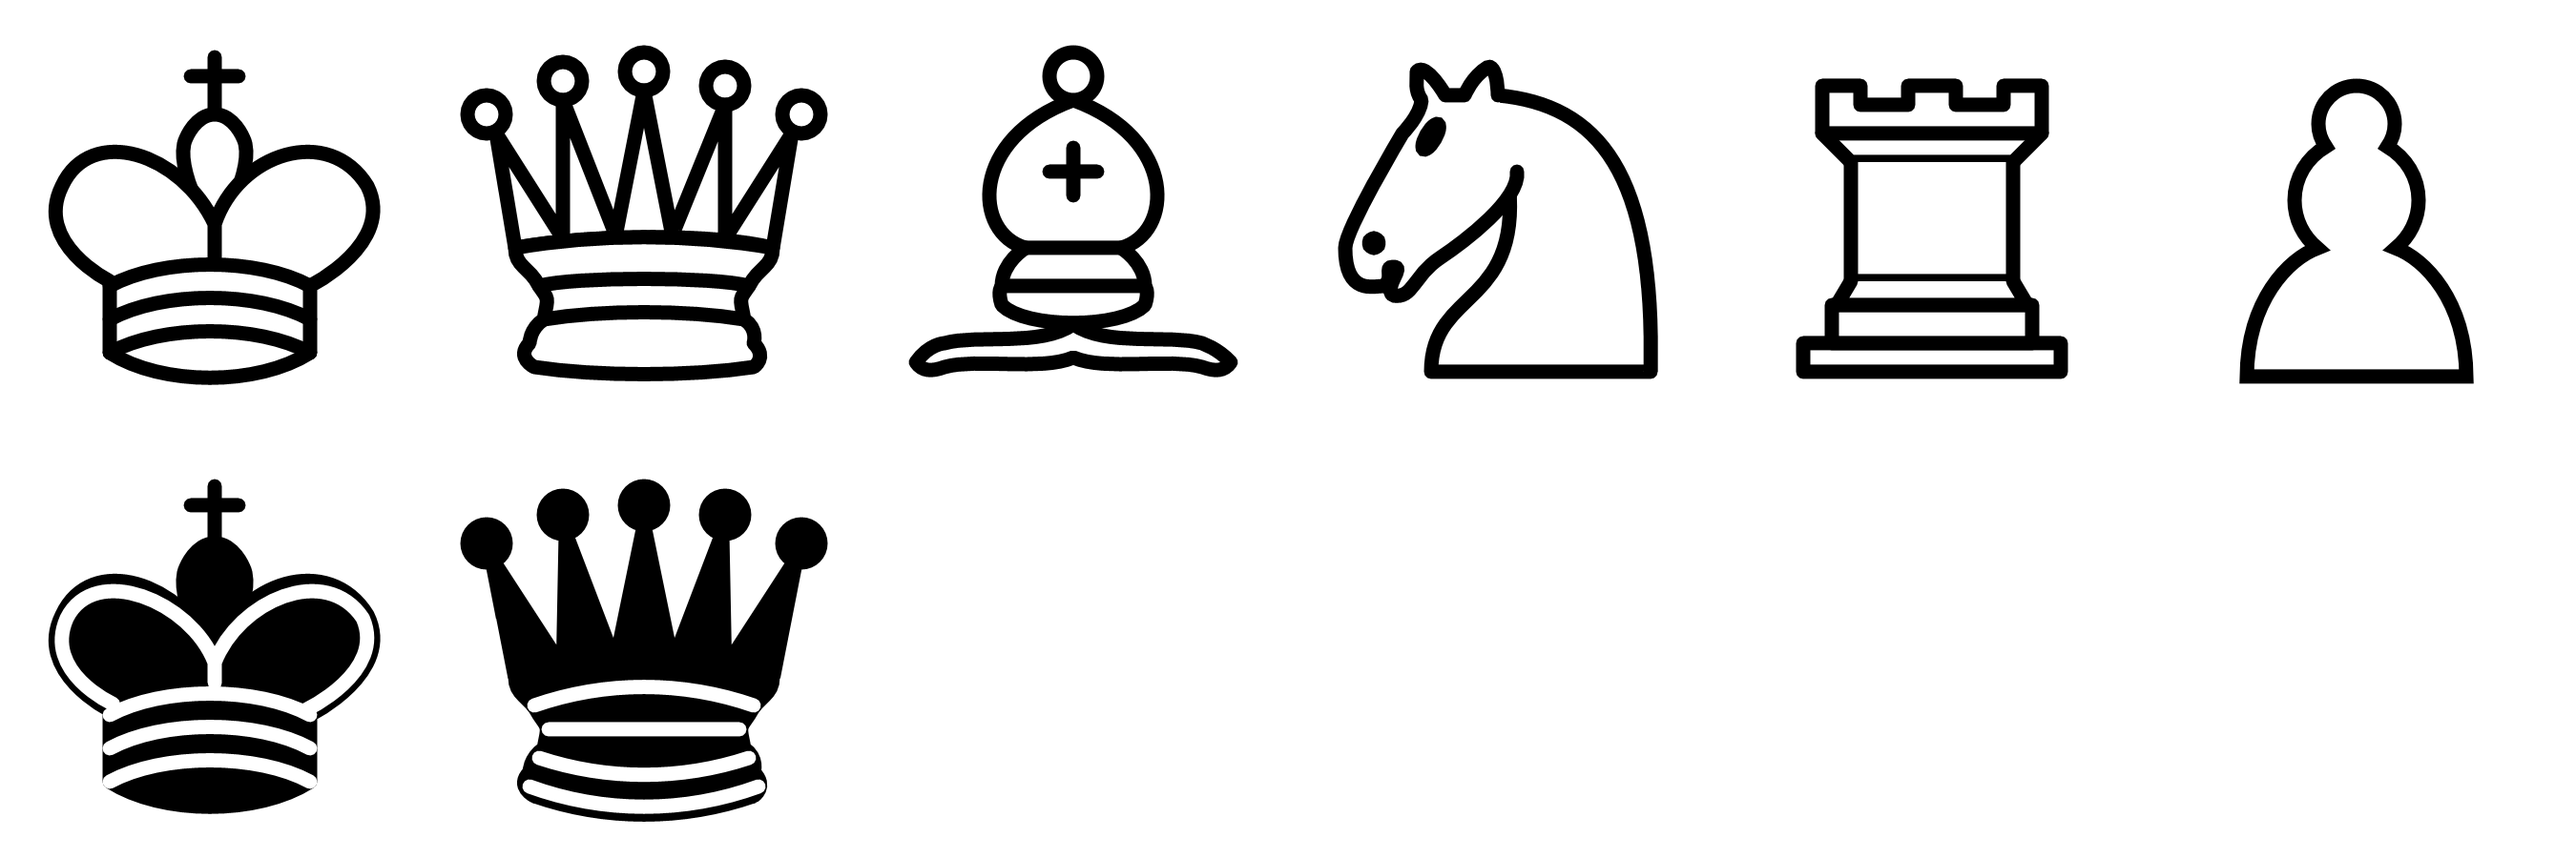
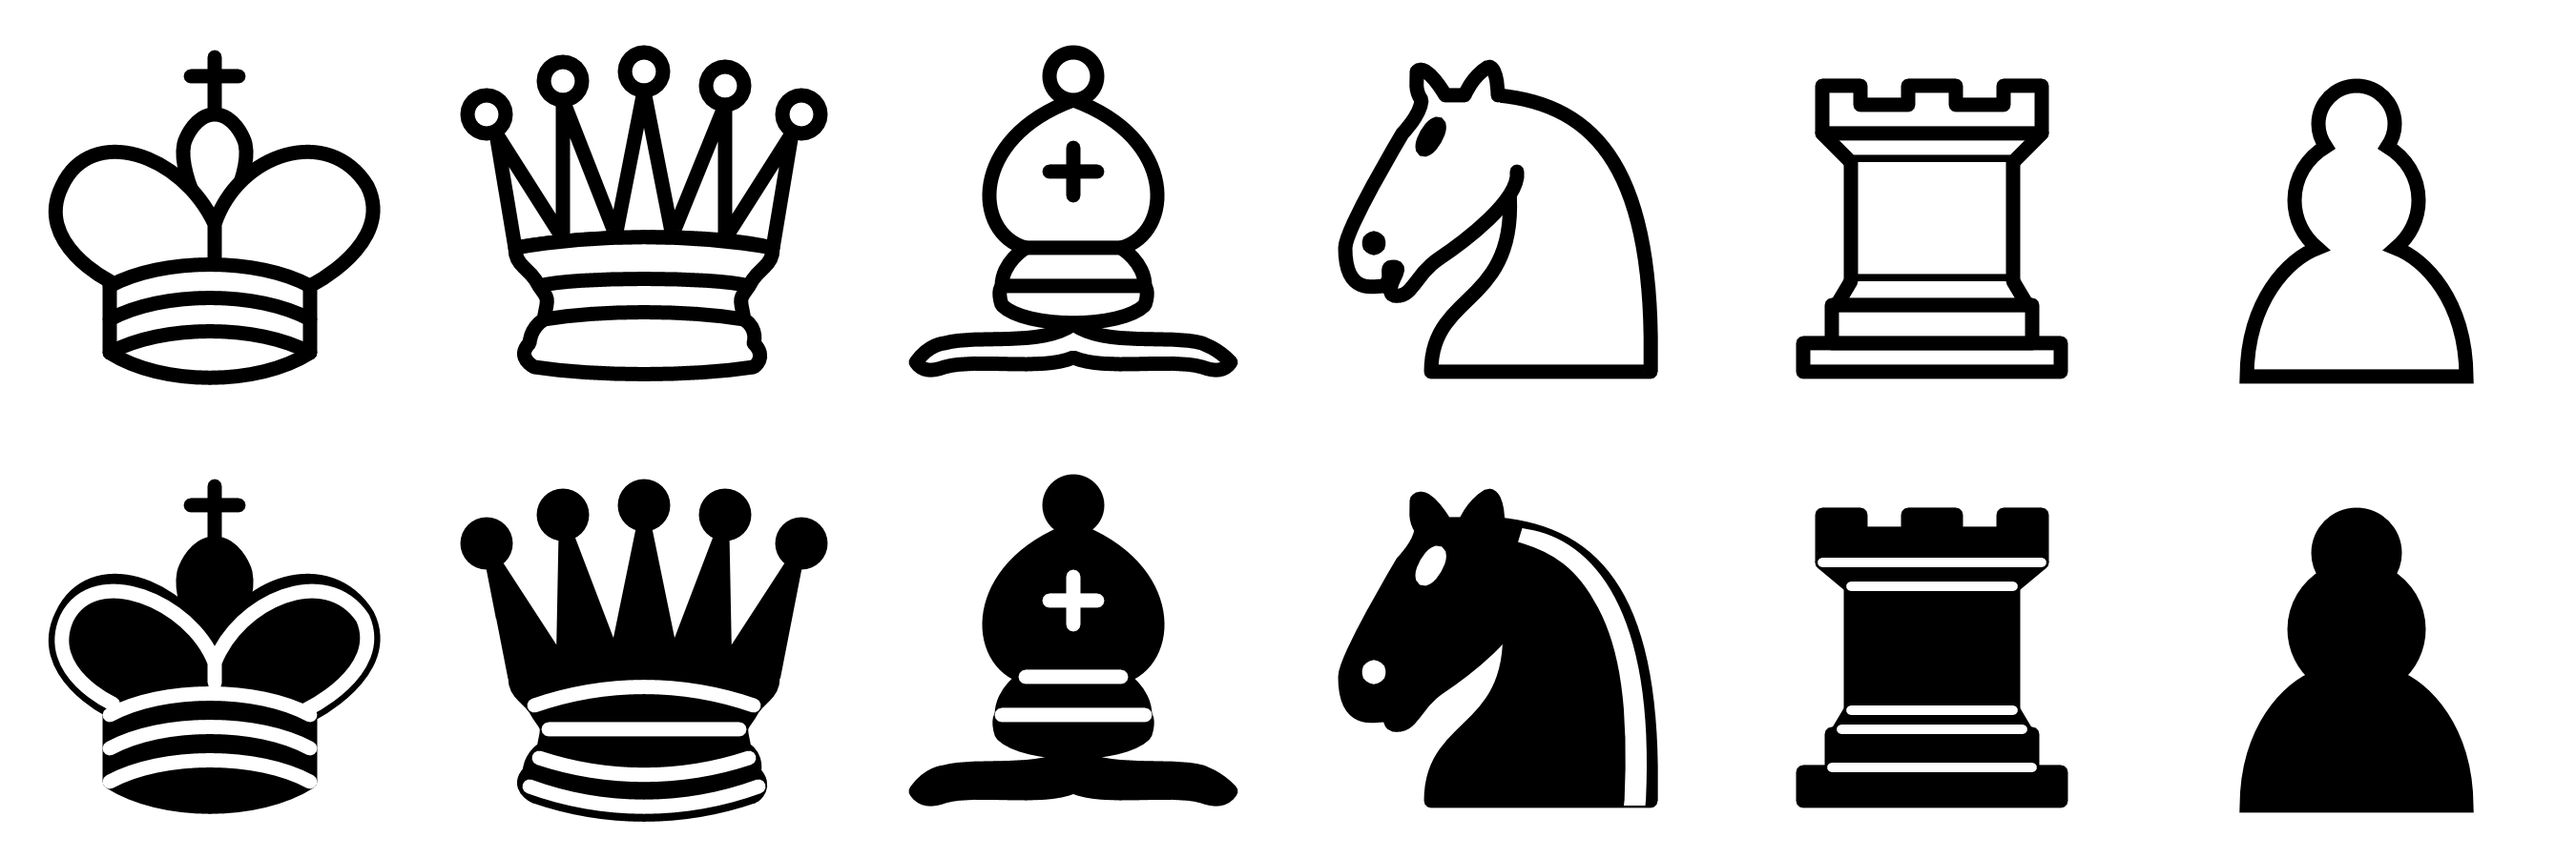
Teams, part 2

diff --git a/src/com/sillypantscoder/chess/game/pieces/LeapingMoveSet.java b/src/com/sillypantscoder/chess/game/pieces/LeapingMoveSet.java
@@ -33,6 +33,7 @@ public class LeapingMoveSet extends MoveSet {
 			Set<Direction> possibleDirections = line.endCell.getDirections()		.stream().collect(Collectors.toSet());
 			// We can't go in the same direction twice
 			possibleDirections.remove(line.directionMoved);
+			possibleDirections.remove(line.directionMoved.reverseDirection());
 			// Go in all possible directions
 			for (Direction dir : possibleDirections) {
 				Cell endpointCell = line.endCell.go(dir);
@@ -44,7 +45,7 @@ public class LeapingMoveSet extends MoveSet {
 		Set<Move> finalMoves = new HashSet<Move>();
 		for (Cell c : possibleEndingPoints) {
 			c.piece.ifPresentOrElse((v) -> {
-				finalMoves.add(new Move.CaptureMove(context, movingPiece, c, v));
+				if (v.team != movingPiece.team) finalMoves.add(new Move.CaptureMove(context, movingPiece, c, v));
 			}, () -> {
 				finalMoves.add(new Move.JumpMove(context, movingPiece, c));
 			});

diff --git a/src/com/sillypantscoder/chess/game/pieces/OrthogonalSlidingMoveSet.java b/src/com/sillypantscoder/chess/game/pieces/OrthogonalSlidingMoveSet.java
@@ -30,8 +30,10 @@ public class OrthogonalSlidingMoveSet extends MoveSet {
 			// If we hit a piece, allow capture and exit
 			if (currentCell.piece.isPresent()) {
 				Piece p = currentCell.piece.get();
-				Move capture = new Move.CaptureMove(context, movingPiece, currentCell, p);
-				moves.add(capture);
+				if (p.team != movingPiece.team) {
+					Move capture = new Move.CaptureMove(context, movingPiece, currentCell, p);
+					moves.add(capture);
+				}
 				break;
 			}
 			// Otherwise, regular move here.

diff --git a/src/com/sillypantscoder/chess/game/pieces/DiagonalSlidingMoveSet.java b/src/com/sillypantscoder/chess/game/pieces/DiagonalSlidingMoveSet.java
@@ -29,8 +29,10 @@ public class DiagonalSlidingMoveSet extends MoveSet {
 			// If we hit a piece, allow capture and exit
 			if (currentCell.piece.isPresent()) {
 				Piece p = currentCell.piece.get();
-				Move capture = new Move.CaptureMove(context, movingPiece, currentCell, p);
-				moves.add(capture);
+				if (p.team != movingPiece.team) {
+					Move capture = new Move.CaptureMove(context, movingPiece, currentCell, p);
+					moves.add(capture);
+				}
 				break;
 			}
 			// Otherwise, regular move here.

diff --git a/src/com/sillypantscoder/chess/game/pieces/PawnStandardMoveSet.java b/src/com/sillypantscoder/chess/game/pieces/PawnStandardMoveSet.java
@@ -42,7 +42,9 @@ public class PawnStandardMoveSet extends MoveSet {
 			if (dir.equals(this.main_direction) || dir.equals(this.main_direction.reverseDirection())) continue;
 			Cell diagonal = forwards.go(dir);
 			diagonal.piece.ifPresent((v) -> {
-				moves.add(new Move.CaptureMove(context, movingPiece, diagonal, v));
+				if (v.team != movingPiece.team) {
+					moves.add(new Move.CaptureMove(context, movingPiece, diagonal, v));
+				}
 			});
 		}
 		// finish

diff --git a/src/com/sillypantscoder/chess/game/Team.java b/src/com/sillypantscoder/chess/game/Team.java
@@ -7,4 +7,6 @@ public class Team {
 		this.name = name;
 		this.spritesheet_index = spritesheet_index;
 	}
+	// TODO: make it so pieces on the same team can't capture each other
+	// TODO: Finish the Chess_Pieces_Sprite3.svg file
 }
